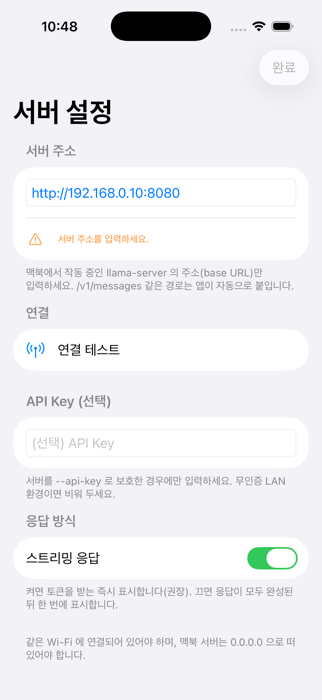
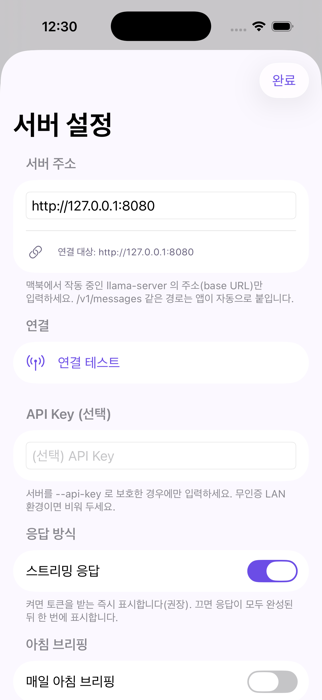
문서: README v0.1 갱신 — 브리핑·웹검색·디자인 반영 + 앱 스크린샷 교체
- 스크린샷 3종: 아침 브리핑(실시간 날씨)·웹검색 채팅(출처 링크)·설정(새 디자인)
- 기능 섹션 신설, 웹검색 키 주입(.env→gen-secrets) 빠른 시작, 하네스 3종

diff --git a/README.md b/README.md
@@ -1,21 +1,33 @@
 # PocketLlama
 
-맥북에서 `llama.cpp`(`llama-server`)로 서빙하는 **Qwen3.6-35B-A3B** 모델에, 아이폰 SwiftUI 앱이 **Anthropic 호환 `/v1/messages`(SSE 스트리밍)**로 붙어 멀티턴 채팅하는 로컬 LLM 클라이언트 MVP. 어시스턴트 답변은 **마크다운으로 렌더링**된다(굵게·코드블록·리스트 등).
+맥북에서 `llama.cpp`(`llama-server`)로 서빙하는 **Qwen3.6-35B-A3B** 모델에, 아이폰 SwiftUI 앱이 **Anthropic 호환 `/v1/messages`(SSE 스트리밍)**로 붙는 **개인화 로컬 LLM 비서**. 채팅을 넘어 ① 매일 아침 알림→**실시간 날씨 브리핑**, ② 모델 판단형 **웹검색 tool-calling**(출처 표기), ③ 프로필 개인화까지 — 데이터는 내 기기(아이폰·맥) 밖으로 나가지 않는다.
 
 <p align="center">
-  <img src="docs/screenshots/chat.png" width="260" alt="채팅 — 마크다운 렌더링" />
-  &nbsp;&nbsp;
-  <img src="docs/screenshots/settings.png" width="260" alt="서버 설정" />
+  <img src="docs/screenshots/briefing.png" width="240" alt="아침 브리핑 — 실시간 날씨 + 프로필 반영" />
+  &nbsp;
+  <img src="docs/screenshots/chat.png" width="240" alt="채팅 — 웹검색 tool-calling + 출처 링크" />
+  &nbsp;
+  <img src="docs/screenshots/settings.png" width="240" alt="서버·브리핑·프로필 설정" />
 </p>
+
+## 기능
+
+- **채팅** — SSE 스트리밍, 마크다운 렌더링, 취소, 멀티턴(최근 세션 복원)
+- **아침 브리핑** — 매일 지정 시각 로컬 알림(벨) → 열면 **그 순간의** 날씨(Open-Meteo)+프로필로 브리핑 생성(전날 생성 없음, 당일 캐시+새로고침). 도시 프리셋 9곳
+- **웹검색 tool-calling** — 모델이 실시간성 질문을 판단해 `web_search`(Tavily) 호출 → 출처 링크 포함 답변. 최대 2라운드 하드캡, 키 없으면 자동 비활성(네이티브 Anthropic tools — 게이트 실측 PASS)
+- **개인화** — 설정의 이름·한 줄 소개를 system 프롬프트에 주입
+- **보안** — API 키는 iOS **Keychain** 보관, `.env`/생성 시크릿은 git 차단
+- **디자인 시스템** — 커스텀 토큰(라이트/다크), 대비 AA 전 조합 통과, Dynamic Type·44pt 터치 타깃
 
 ## 구조
 ```
 .
 ├── app/PocketLlama.xcodeproj   # iOS 앱 (SwiftUI, URLSession)
-│   └── PocketLlama/            #   Models·Utilities·Services·Stores·ViewModels·Views
+│   └── PocketLlama/            #   Models·Utilities·Services·Stores·ViewModels·Views·DesignSystem
 ├── server/                     # llama.cpp 서빙 스크립트 (serve.sh: HOST 변형, test-anthropic.sh)
 ├── models/                     # 모델 가중치(gitignore, 하드링크) — Qwen3.6-35B-A3B-UD-Q5_K_XL.gguf
-├── plans/                      # 구현 계획서(v3) + 리뷰
+├── scripts/                    # gen-secrets.sh (.env → Generated/Secrets.swift, gitignored)
+├── plans/                      # 컨셉·구현 계획·리서치·리뷰
 └── .claude/                    # 하네스(에이전트·스킬) — 아래
 ```
 
@@ -29,16 +41,31 @@ HOST=0.0.0.0 ./server/serve.sh          # 실기기/LAN 접속용
 ```
 > ⚠️ `0.0.0.0` + 무인증은 같은 Wi-Fi 전체 노출. 신뢰된 가정용 LAN에서만. (보안: `server/README.md`)
 
-### 2) 앱 빌드/실행 (Xcode)
+### 2) (선택) 웹검색 키 주입
+```bash
+echo 'TAVILY_API_KEY=tvly-...' > .env   # 레포 루트(.env 는 git 차단됨)
+./scripts/gen-secrets.sh                # → Generated/Secrets.swift 시드 생성(gitignored)
+```
+앱 첫 실행 시 Keychain 에 1회 시드되며, 이후엔 설정 화면에서 직접 관리한다. 키가 없으면 웹검색만 조용히 비활성.
+
+### 3) 앱 빌드/실행 (Xcode)
 ```bash
 open app/PocketLlama.xcodeproj
 ```
-- 상단에서 기기 선택 후 **⌘R** → `SettingsView`에 서버 주소 입력 → 연결 테스트 → 채팅.
-- **서버 주소**: 시뮬레이터는 맥과 네트워크를 공유하므로 `http://127.0.0.1:8080`. 실기기는 맥의 LAN IP(`http://192.168.x.x:8080`) + 서버를 `HOST=0.0.0.0`으로 기동.
-- **외부(셀룰러/다른 Wi-Fi)에서 접속**: 포트포워딩 대신 [Tailscale](https://tailscale.com)(메시 VPN) 권장 — 맥·아이폰을 같은 계정으로 연결하고 앱 주소에 맥의 Tailscale IP(`http://100.x.x.x:8080`). 평문 http 는 `Info.plist`의 `NSAllowsArbitraryLoads`로 허용된다(Tailscale CGNAT 대역은 ATS 의 "로컬"에 미포함이라 `NSAllowsLocalNetworking`만으론 차단됨).
+- 상단에서 기기 선택 후 **⌘R** → 설정에 서버 주소 입력 → 연결 테스트 → 채팅. 브리핑은 설정의 "아침 브리핑" 토글(알림 권한 허용).
+- **서버 주소**: 시뮬레이터는 `http://127.0.0.1:8080`. 실기기는 맥의 LAN IP(`http://192.168.x.x:8080`) + 서버 `HOST=0.0.0.0` 기동.
+- **외부(셀룰러/다른 Wi-Fi)에서 접속**: 포트포워딩 대신 [Tailscale](https://tailscale.com)(메시 VPN) 권장 — 앱 주소에 맥의 Tailscale IP(`http://100.x.x.x:8080`). 평문 http 는 `Info.plist`의 `NSAllowsArbitraryLoads`로 허용된다(Tailscale CGNAT 대역은 ATS "로컬"에 미포함이라 `NSAllowsLocalNetworking`만으론 차단됨).
 - 최소 타깃 iOS 26.4. 컴파일 검증은 `.claude/skills/xcode-build-check/scripts/build-check.sh`.
+- 알림 **정시 발화·잠금화면**은 시뮬레이터에서 검증 불가 → 실기기 체크리스트(`_workspace/qa-final-e2e.md`, 무료 Apple ID 는 7일 재서명 필요).
+
+## 문서 (plans/)
+
+- `personalized-agent-concept.md` — 컨셉 SSOT("아침에 먼저 말 거는, 나를 기억하는 사적 비서") + 의사결정 로그
+- `v0.1-weather-briefing-websearch-plan.md` — v0.1 구현 계획(게이트 실측·리뷰 반영)
+- `research-personalized-agent-*.md` — 개인화 에이전트 리서치 5종(로드맵 Phase 0~5)
 
 ## 하네스 (.claude)
-이 repo는 두 하네스로 운영한다(상세: `CLAUDE.md`):
+이 repo는 세 하네스로 운영한다(상세: `CLAUDE.md`):
 - **`strict-review`** — 코드·계획서를 내부+agy(Gemini)·grok 외부 리뷰로 엄중 검토·통합
 - **`ios-build`** — 계획서 Phase를 SwiftUI 코드로 구현(swift-builder)+검증(ios-qa), `server-gate`/`xcode-build-check` 보조
+- **`ios-design`** — 디자인 시스템·화면 스타일(ui-designer)+HIG·접근성 검증(design-critic), `apple-hig`/`ios-design-system` 보조